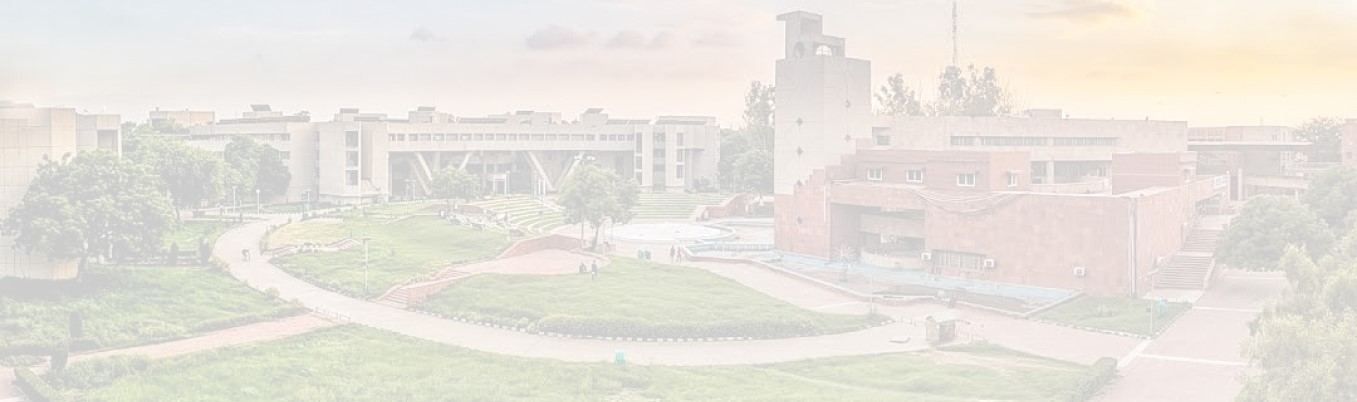
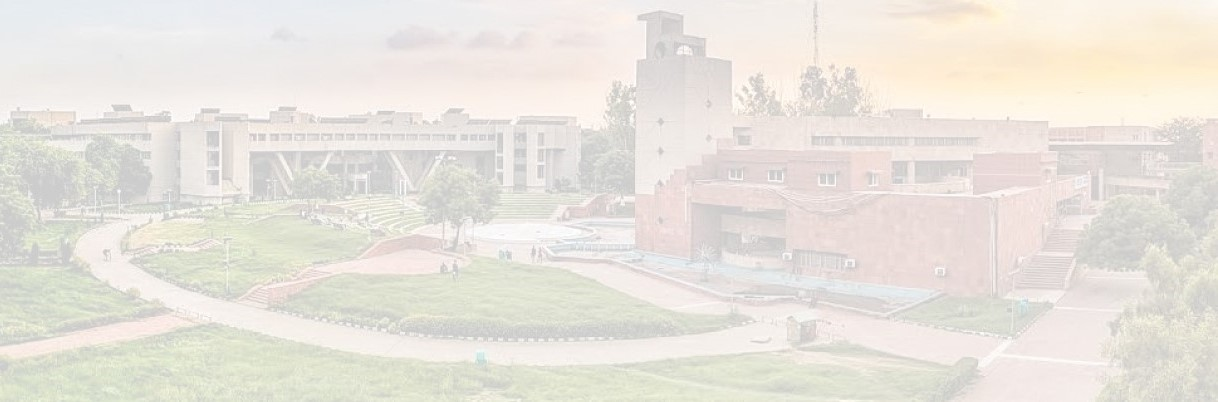
Added Google Maps

diff --git a/components/MainPageSelection.js b/components/MainPageSelection.js
@@ -3,11 +3,14 @@ import SelectionButton from "./SelectionButton";
 import NavigationContext from "./contexts/NavigationContext";
 import { FontAwesomeIcon } from "@fortawesome/react-fontawesome";
 import { faArrowLeft } from "@fortawesome/free-solid-svg-icons";
+import LocationDesc from "./LocationDesc";
 
 const navigationItems = [
   { id: 1, name: "Explore DTU's Hottest Food and Hangout Spots with a Single Click!",
     parent : -1,
-   nestedList : [
+    location: null,
+    description : null,
+    nestedList : [
     {id : 2, name: "Recreational"},
     {id : 3, name: "Departments"},
     {id : 4, name: "React.js"},
@@ -26,7 +29,9 @@ const navigationItems = [
   ]},
   { id: 2, name: "Recreational",
     parent: 1,
-   nestedList : [
+    location : null,
+    description : null,
+    nestedList : [
     { id: 17, name: "Nescafe" },
     { id: 18, name: "Mech Canteen" },
     { id: 19, name: "Mic Mac" },
@@ -36,37 +41,39 @@ const navigationItems = [
   ]},
   { id: 3, name: "Departments",
     parent: 1,
-   nestedList : [
+    location : null,
+    description : null,
+    nestedList : [
     { id: 23, name: "Computer Engineering" },
     { id: 24, name: "Information Technology" },
     { id: 25, name: "Software Engineering" },
     { id: 26, name: "Mathematics and Computing Engineering" }
   ]},
-  { id: 4, name: "React.js",parent : 1, nestedList : [] },
-  { id: 5, name: "Next.js",parent : 1, nestedList : [] },
-  { id: 6, name: "Node.js",parent : 1, nestedList : [] },
-  { id: 7, name: "Express.js",parent : 1, nestedList : [] },
-  { id: 8, name: "C++",parent : 1, nestedList : [] },
-  { id: 9, name: "JavaScript",parent : 1, nestedList : [] },
-  { id: 10, name: "Tailwind CSS",parent : 1, nestedList : [] },
-  { id: 11, name: "Bootstrap 5",parent : 1, nestedList : [] },
-  { id: 12, name: "CSS3",parent : 1, nestedList : [] },
-  { id: 13, name: "HTML5",parent : 1, nestedList : [] },
-  { id: 14, name: "Git/Github",parent : 1, nestedList : [] },
-  { id: 15, name: "MySQL",parent : 1, nestedList : [] },
-  { id: 16, name: "MongoDB",parent : 1, nestedList : [] },
-  { id: 17, name: "Nescafe",parent : 2, nestedList : [] },
-  { id: 18, name: "Mech Canteen",parent : 2, nestedList : [] },
-  { id: 19, name: "Mic Mac",parent : 2, nestedList : [] },
-  { id: 20, name: "HPMC",parent : 2, nestedList : [] },
-  { id: 21, name: "Amul",parent : 2, nestedList : [] },
-  { id: 22, name: "OAT",parent : 2, nestedList : [] },
-  { id: 23, name: "Computer Engineering",parent : 3, nestedList : [] },
-  { id: 24, name: "Information Technology",parent : 3, nestedList : [] },
-  { id: 25, name: "Software Engineering",parent : 3, nestedList : [] },
-  { id: 26, name: "Mathematics and Computing Engineering",parent : 3, nestedList : [] }
-];
 
+  { id: 4, name: "React.js",parent : 1, location : {latitude : 28.7449517, longitude : 77.1177903}, description : ["Room No. 216","Mechanical Dept Second Floor","Near Stairs"], nestedList : [] },
+  { id: 5, name: "Next.js",parent : 1, location : {latitude : 28.7449517, longitude : 77.1177903}, description : ["Room No. 216","Mechanical Dept Second Floor","Near Stairs"], nestedList : [] },
+  { id: 6, name: "Node.js",parent : 1, location : {latitude : 28.7449517, longitude : 77.1177903}, description : ["Room No. 216","Mechanical Dept Second Floor","Near Stairs"], nestedList : [] },
+  { id: 7, name: "Express.js",parent : 1, location : {latitude : 28.7449517, longitude : 77.1177903},description : ["Room No. 216","Mechanical Dept Second Floor","Near Stairs"], nestedList : [] },
+  { id: 8, name: "C++",parent : 1, location : {latitude : 28.7449517, longitude : 77.1177903},description : ["Room No. 216","Mechanical Dept Second Floor","Near Stairs"], nestedList : [] },
+  { id: 9, name: "JavaScript",parent : 1, location : {latitude : 28.7449517, longitude : 77.1177903},description : ["Room No. 216","Mechanical Dept Second Floor","Near Stairs"], nestedList : [] },
+  { id: 10, name: "Tailwind CSS",parent : 1, location : {latitude : 28.7449517, longitude : 77.1177903},description : ["Room No. 216","Mechanical Dept Second Floor","Near Stairs"], nestedList : [] },
+  { id: 11, name: "Bootstrap 5",parent : 1, location : {latitude : 28.7449517, longitude : 77.1177903},description : ["Room No. 216","Mechanical Dept Second Floor","Near Stairs"], nestedList : [] },
+  { id: 12, name: "CSS3",parent : 1, location : {latitude : 28.7449517, longitude : 77.1177903},description : ["Room No. 216","Mechanical Dept Second Floor","Near Stairs"], nestedList : [] },
+  { id: 13, name: "HTML5",parent : 1, location : {latitude : 28.7449517, longitude : 77.1177903},description : ["Room No. 216","Mechanical Dept Second Floor","Near Stairs"], nestedList : [] },
+  { id: 14, name: "Git/Github",parent : 1, location : {latitude : 28.7449517, longitude : 77.1177903},description : ["Room No. 216","Mechanical Dept Second Floor","Near Stairs"], nestedList : [] },
+  { id: 15, name: "MySQL",parent : 1, location : {latitude : 28.7449517, longitude : 77.1177903},description : ["Room No. 216","Mechanical Dept Second Floor","Near Stairs"], nestedList : [] },
+  { id: 16, name: "MongoDB",parent : 1, location : {latitude : 28.7449517, longitude : 77.1177903},description : ["Room No. 216","Mechanical Dept Second Floor","Near Stairs"], nestedList : [] },
+  { id: 17, name: "Nescafe",parent : 2, location : {latitude : 28.7449517, longitude : 77.1177903},description : ["Room No. 216","Mechanical Dept Second Floor","Near Stairs"], nestedList : [] },
+  { id: 18, name: "Mech Canteen",parent : 2, location : {latitude : 28.7449517, longitude : 77.1177903},description : ["Room No. 216","Mechanical Dept Second Floor","Near Stairs"], nestedList : [] },
+  { id: 19, name: "Mic Mac",parent : 2, location : {latitude : 28.7449517, longitude : 77.1177903},description : ["Room No. 216","Mechanical Dept Second Floor","Near Stairs"], nestedList : [] },
+  { id: 20, name: "HPMC",parent : 2, location : {latitude : 28.7449517, longitude : 77.1177903},description : ["Room No. 216","Mechanical Dept Second Floor","Near Stairs"], nestedList : [] },
+  { id: 21, name: "Amul",parent : 2, location : {latitude : 28.7449517, longitude : 77.1177903},description : ["Room No. 216","Mechanical Dept Second Floor","Near Stairs"], nestedList : [] },
+  { id: 22, name: "OAT",parent : 2, location : {latitude : 28.7449517, longitude : 77.1177903},description : ["Room No. 216","Mechanical Dept Second Floor","Near Stairs"], nestedList : [] },
+  { id: 23, name: "Computer Engineering",parent : 3, location : {latitude : 28.7449517, longitude : 77.1177903},description : ["Room No. 216","Mechanical Dept Second Floor","Near Stairs"], nestedList : [] },
+  { id: 24, name: "Information Technology",parent : 3, location : {latitude : 28.7449517, longitude : 77.1177903},description : ["Room No. 216","Mechanical Dept Second Floor","Near Stairs"], nestedList : [] },
+  { id: 25, name: "Software Engineering",parent : 3, location : {latitude : 28.7449517, longitude : 77.1177903},description : ["Room No. 216","Mechanical Dept Second Floor","Near Stairs"], nestedList : [] },
+  { id: 26, name: "Mathematics and Computing Engineering",parent : 3, location : {latitude : 28.7449517, longitude : 77.1177903},description : ["Room No. 216","Mechanical Dept Second Floor","Near Stairs"], nestedList : [] }
+];
 
 function MainPageDiv() {
   const [currentItemID, setCurrentItemID] = useState(1);
@@ -76,30 +83,34 @@ function MainPageDiv() {
   }
 
   return (
-    <div className='flex mx-[6rem] my-3 justify-start flex-col px-5 py-5
+    <div className='flex mx-[5rem] my-3 justify-start flex-col px-5 py-5
       rounded-[30px] bg-off-blue opacity-80'>
       <div className="flex justify-between mx-8 flex-col">
 
         <div className=" text-background-blue text-4xl mt-8 flex items-center">
           {currentItemID !== 1 ? 
-          <FontAwesomeIcon icon={faArrowLeft} className="cursor-pointer" onClick={handleBackClick}/> 
-          : null
+            <FontAwesomeIcon icon={faArrowLeft} className="cursor-pointer absolute" onClick={handleBackClick}/> 
+            : null
           }
           <div className="flex justify-center items-center w-full text-center">
             {navigationItems[currentItemID-1].name}
           </div>
         </div>
-
+        
+        {navigationItems[currentItemID-1].location === null ? 
         <div className="flex justify-between flex-wrap mt-12">
           <NavigationContext.Provider value={[currentItemID,setCurrentItemID]}>
           {
             navigationItems[currentItemID-1].nestedList.map(currItem => (
-            <SelectionButton item = {currItem} key = {currItem.id}></SelectionButton>
+              <SelectionButton item = {currItem} key = {currItem.id}></SelectionButton>
             ))
           }
           </NavigationContext.Provider>
-        </div>
-
+        </div> 
+        :
+          <LocationDesc item = {navigationItems[currentItemID-1]}></LocationDesc>
+        }
+        
       </div>
     </div>
   )

diff --git a/components/LocationDesc.js b/components/LocationDesc.js
@@ -1,0 +1,24 @@
+import Image from 'next/image'
+import React from 'react'
+
+function LocationDesc({item}) {
+  return (
+    <div className='flex items-center flex-col'>
+        <div className='flex mt-8 flex-col'>
+          {item.description.map(currItem => (
+            <div className='flex items-center justify-center text-background-blue text-4xl'>{currItem}</div>
+          ))}
+        </div>
+
+        <a className='w-[9rem] h-[3rem] rounded-[0.6875rem] flex justify-evenly
+        items-center gradient-google-maps mb-12 text-[1rem] mr-2 cursor-pointer mt-8'
+        href={`https://www.google.com/maps/dir//${item.location.latitude},${item.location.longitude}`}
+        target={"_blank"} rel="noreferrer" >
+          <img src='/images/Google_Maps_icon.png' className="w-[1.3rem]"></img>
+          Open Maps
+        </a>
+    </div>
+  )
+}
+
+export default LocationDesc

diff --git a/components/MainPageDiv.js b/components/MainPageDiv.js
@@ -2,10 +2,10 @@
 function MainPageDiv() {
 
   return (
-      <div className='flex mx-[6rem] my-3 justify-start flex-col px-3 py-4
-       h-[50rem] rounded-[30px] bg-lightest-blue opacity-80'>
+      <div className='flex mx-[5rem] my-3 justify-start flex-col px-3 py-4
+       h-[25rem] rounded-[30px] bg-lightest-blue opacity-80 bg-[url("/images/dtu2.jpg")]'>
         <div className="flex justify-between mx-8">
-          <div className="w-1/2 mt-12  text-background-blue text-5xl">
+          <div className="w-1/2 mt-12  text-background-blue text-4xl">
             Navigating in DTU Made Easy: Your Ultimate Campus Guide
           </div>
           <img src='/images/navigationMapFront.png' className="w-[16rem] mt-4"></img>

diff --git a/components/Footer.js b/components/Footer.js
@@ -2,7 +2,7 @@
 function MainPageDiv() {
 
     return (
-        <div className='flex mx-[6rem] my-3 justify-center items-center flex-col px-3 py-4
+        <div className='flex mx-[5rem] my-3 justify-center items-center flex-col px-3 py-4
          rounded-[30px] bg-dark-blue opacity-80 text-center'>
             © Copyright DTU CampusNav 2023. All Rights Reserved Designed with ❤ and 🖥
         </div>

diff --git a/components/SelectionButton.js b/components/SelectionButton.js
@@ -9,7 +9,7 @@ function SelectionButton({item}) {
   };
 
   return (
-    <div className='w-[12rem] h-[3.5rem] rounded-[0.6875rem] flex justify-center
+    <div className='w-[11rem] h-[3rem] rounded-[0.6875rem] flex justify-center
      items-center gradient-hotspot mb-12 text-[1rem] mr-2 cursor-pointer' 
      onClick={handleButtonClick}
     >

diff --git a/pages/_document.js b/pages/_document.js
@@ -4,6 +4,8 @@ export default function Document() {
   return (
     <Html lang="en">
       <Head>
+        <meta name="viewport" content="width=device-width, initial-scale=0.9" />
+
         <link rel="shortcut icon" href="/favicon/favicon.ico" />
 
         {/* google fonts below "Play" */}

diff --git a/styles/global.css b/styles/global.css
@@ -19,3 +19,8 @@ body{
     background: linear-gradient(180deg, #C9E7E9 0%, #AFB1E3 0.01%, #51AADC 100%);
     filter: brightness(120%);
 }
+
+.gradient-google-maps{
+    background: linear-gradient(180deg, #7AACFF 0%, #1A73E8 100%);
+    filter: brightness(110%);
+}
